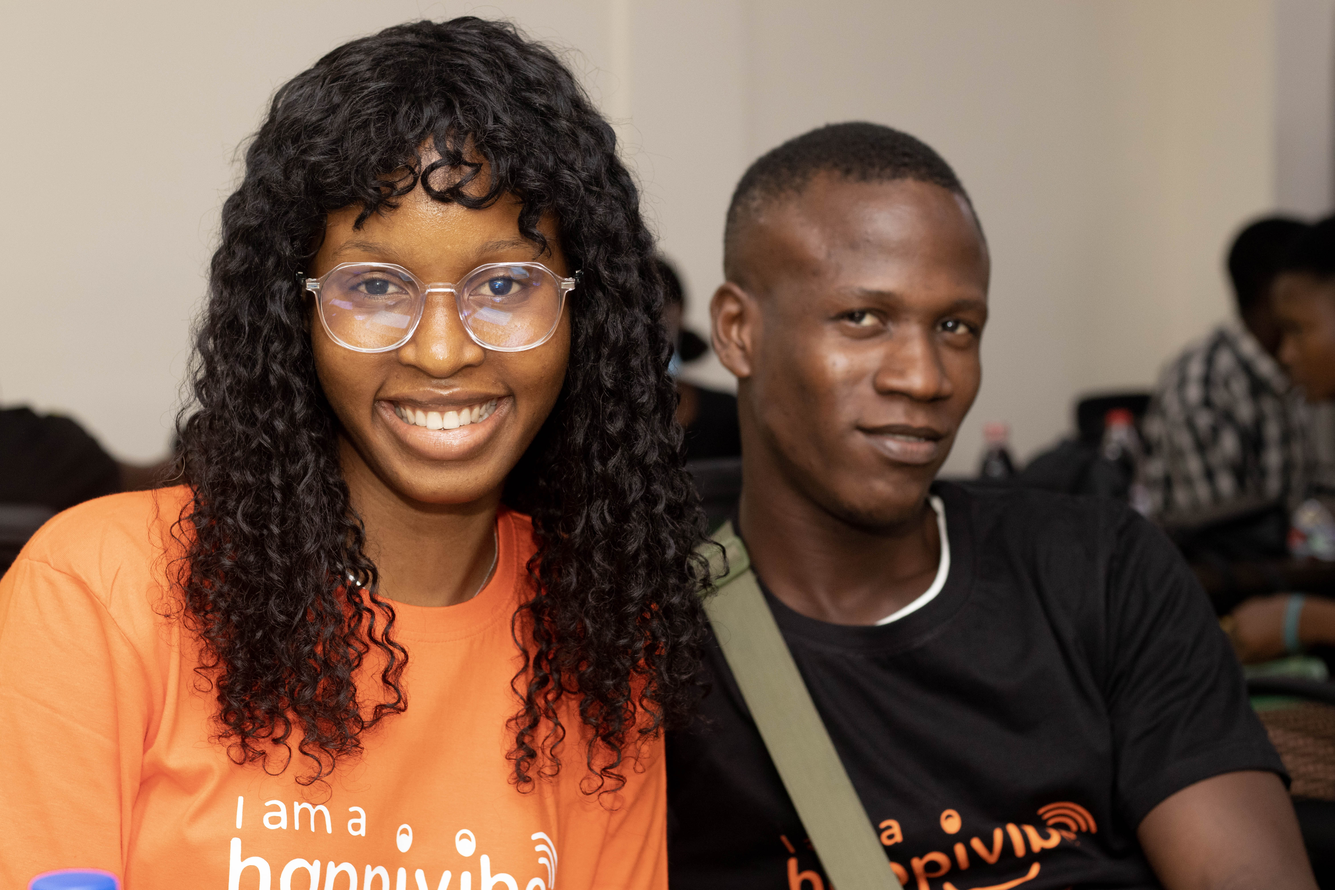
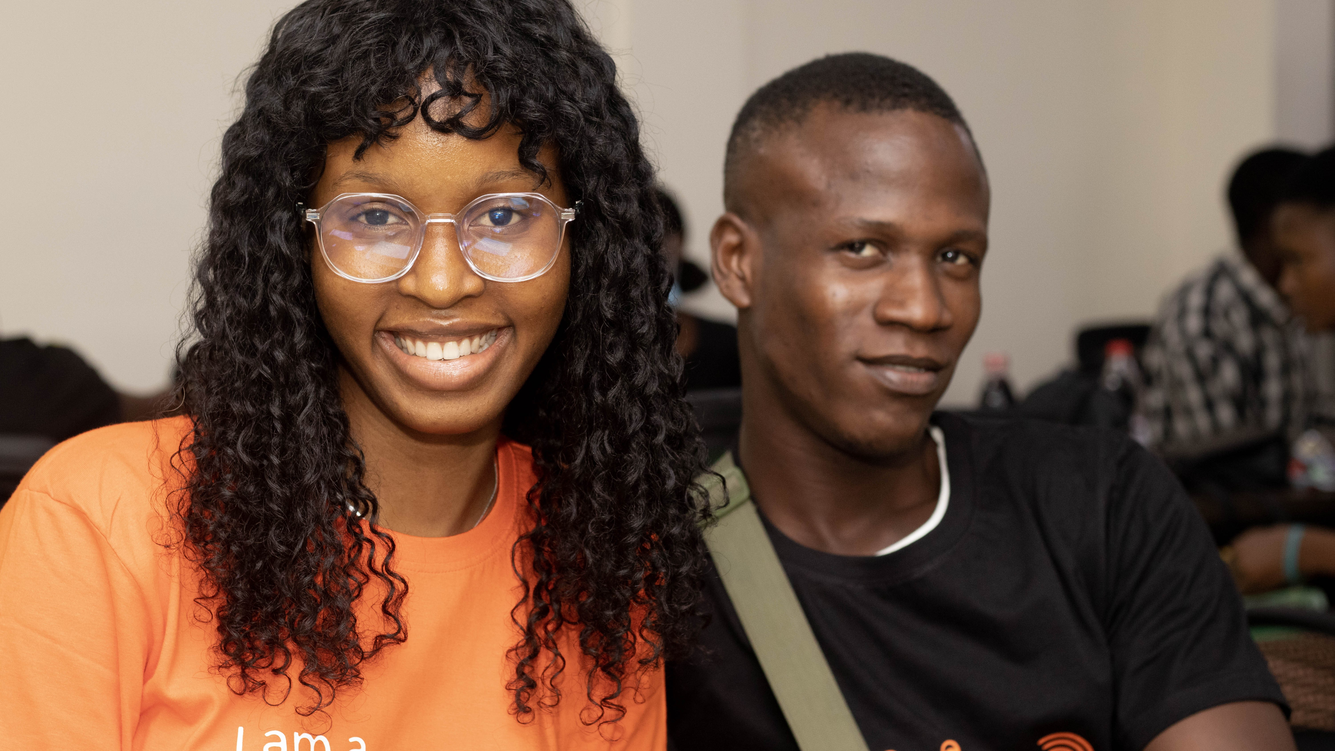
...

diff --git a/src/lib/hero.svelte b/src/lib/hero.svelte
@@ -4,7 +4,7 @@
 	export let idDetails = '';
 </script>
 
-<div class="relative overflow-hidden bg-no-repeat bg-bottom md:bg-center w-full md:h-80 h-52">
+<div class="relative overflow-hidden bg-no-repeat bg-bottom md:bg-center w-full md:h-96 h-44">
 	<img src={img} class="" alt="" />
 	<div
 		class="absolute top-0 right-0 bottom-0 left-0 w-full h-full overflow-hidden bg-fixed"
